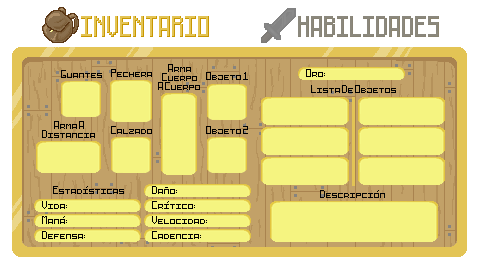
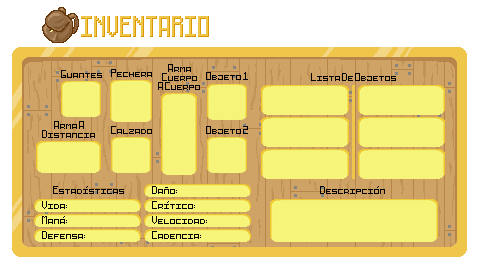
recolocando objetos

diff --git a/src/Sources/Inventory.cpp b/src/Sources/Inventory.cpp
@@ -52,7 +52,7 @@ Inventory::Inventory(Application* app) :GameState(app) {
 	//app_->getWindowWidth(), app_->getWindowHeight() 
 	 auxpos = Vector2D{ 8*(double)(app_->getWindowWidth() /9), 2*(double)(app_->getWindowHeight()/9)};
 	 auxSize = Vector2D{ (double)(app_->getWindowWidth() / 25),  (double)(app_->getWindowWidth() / 25) };
-	exitButton_= new Button(app, app_->getTextureManager()->getTexture(Resources::ButtonX), { 1439,214 }, { 60,53 }, callExit);
+	exitButton_= new Button(app, app_->getTextureManager()->getTexture(Resources::ButtonX), auxpos, auxSize, callExit);
 	addRenderUpdateLists(exitButton_);
 
 	auxpos = Vector2D{ 7 * (double)(app_->getWindowWidth() / 13),/* 1 * (double)(app_->getWindowHeight() / 40)*/ 22};
@@ -70,20 +70,20 @@ Inventory::Inventory(Application* app) :GameState(app) {
 	
 	playerEquipment aux = player_->getInfoEquip();
 
-	if (aux.armor_ != nullptr) equipment_.armor_ = new InventoryButton(app_,  app_->getTextureManager()->getTexture(Resources::TextureId::Wheel), Vector2D{ 300,400 }, Vector2D{ 50,50 }, aux.armor_, callSelectObject,true);
-	if (aux.boots_ != nullptr) equipment_.boots_ = new InventoryButton(app_,  app_->getTextureManager()->getTexture(Resources::TextureId::Wheel), Vector2D{ 300,400 }, Vector2D{ 50,50 }, aux.boots_, callSelectObject,true);
-	if (aux.gloves_ != nullptr) equipment_.gloves_ = new InventoryButton(app_,  app_->getTextureManager()->getTexture(Resources::TextureId::Gloves1), Vector2D{ 300,400 }, Vector2D{ 50,50 }, aux.gloves_, callSelectObject,true);
-	if (aux.gun_ != nullptr) equipment_.gun_ = new InventoryButton(app_,  app_->getTextureManager()->getTexture(Resources::TextureId::Gun1), Vector2D{ 300,400 }, Vector2D{ 75,75 }, aux.gun_, callSelectObject,true);
-	if (aux.sword_ != nullptr) equipment_.sword_ = new InventoryButton(app_,  app_->getTextureManager()->getTexture(Resources::TextureId::Wheel), Vector2D{ 300,400 }, Vector2D{ 50,50 }, aux.sword_, callSelectObject,true);
-	if (aux.potion1_ != nullptr) equipment_.potion1_ = new InventoryButton(app_,  app_->getTextureManager()->getTexture(Resources::TextureId::Wheel), Vector2D{ 300,400 }, Vector2D{ 50,50 }, aux.potion1_, callSelectObject,true);
-	if (aux.potion2_ != nullptr) equipment_.potion2_ = new InventoryButton(app_,  app_->getTextureManager()->getTexture(Resources::TextureId::Wheel), Vector2D{ 300,400 }, Vector2D{ 50,50 }, aux.potion2_, callSelectObject,true);
+	if (aux.armor_ != nullptr) equipment_.armor_ = new InventoryButton(app_, aux.armor_->getItemTexture(), Vector2D{ 300,400 }, Vector2D{ 50,50 }, aux.armor_, callSelectObject,true);
+	if (aux.boots_ != nullptr) equipment_.boots_ = new InventoryButton(app_, aux.boots_->getItemTexture(), Vector2D{ 300,400 }, Vector2D{ 50,50 }, aux.boots_, callSelectObject,true);
+	if (aux.gloves_ != nullptr) equipment_.gloves_ = new InventoryButton(app_, aux.gloves_->getItemTexture(), Vector2D{ 300,400 }, Vector2D{ 50,50 }, aux.gloves_, callSelectObject,true);
+	if (aux.gun_ != nullptr) equipment_.gun_ = new InventoryButton(app_, aux.gun_->getItemTexture(), Vector2D{ 300,400 }, Vector2D{ 75,75 }, aux.gun_, callSelectObject,true);
+	if (aux.sword_ != nullptr) equipment_.sword_ = new InventoryButton(app_, aux.sword_->getItemTexture(), Vector2D{ 300,400 }, Vector2D{ 50,50 }, aux.sword_, callSelectObject,true);
+	if (aux.potion1_ != nullptr) equipment_.potion1_ = new InventoryButton(app_, aux.potion1_->getItemTexture(), Vector2D{ 300,400 }, Vector2D{ 50,50 }, aux.potion1_, callSelectObject,true);
+	if (aux.potion2_ != nullptr) equipment_.potion2_ = new InventoryButton(app_, aux.potion2_->getItemTexture(), Vector2D{ 300,400 }, Vector2D{ 50,50 }, aux.potion2_, callSelectObject,true);
 
 	#ifdef _DEBUG
 	cout << "creamos el objeto" << endl;
 	string nombre = "guantes1";
 	string desc = "duantes1";
 	
-	Gloves* guante0 = new Gloves(app_->getTextureManager()->getTexture(Resources::TextureId::Gloves1), nombre, desc, 20.0, 10, 10);
+	Gloves* guante0 = new Gloves(app_->getTextureManager()->getTexture(Resources::TextureId::Gloves2), nombre, desc, 20.0, 10, 10);
 	Gloves* guante1 = new Gloves(app_->getTextureManager()->getTexture(Resources::TextureId::Gloves1), nombre, desc, 20.0, 10, 10);
 	Gloves* guante2 = new Gloves(app_->getTextureManager()->getTexture(Resources::TextureId::Gloves1), nombre, desc, 20.0, 10, 10);
 	Gloves* guante3 = new Gloves(app_->getTextureManager()->getTexture(Resources::TextureId::Gloves1), nombre, desc, 20.0, 10, 10);
@@ -234,7 +234,7 @@ void Inventory::equipPotionAux() {
 void Inventory::forwardList() {
 	int aux = advanced;
 	aux += 1;
-	if ((aux * VIEW_LIST)<= inventoryList_->size()){
+	if (((aux * VIEW_LIST))<= inventoryList_->size()){
 		advanced = aux;
 		advance(ListPos, VIEW_LIST);//avanzamos el iterador
 	}
@@ -291,34 +291,71 @@ void Inventory::draw()const {
 			j++;
 		}
 	}
+	double posx, posy, sizeX, sizeY;
+	
 	
 	// falta ajustar la posicion de los botones
 	if (equipment_.gloves_ != nullptr) {
-		equipment_.gloves_->setPos(Vector2D{ 163.0,180.0 });
+		 posx = 2.6 * (double)(app_->getWindowWidth() / 21);
+		 posy = 3 * (double)(app_->getWindowHeight() / 10);
+		 sizeX = (double)(app_->getWindowWidth() / 12);
+		 sizeY = (double)(app_->getWindowWidth() / 12);
+		equipment_.gloves_->setPos(Vector2D{ posx,posy });
+		equipment_.gloves_->setScale(Vector2D{ sizeX,sizeY });
 		equipment_.gloves_->draw();
 	}
 	if (equipment_.gun_ != nullptr) {
-		equipment_.gun_->setPos(Vector2D{ 600.0,500.0 });
+		posx = 2 * (double)(app_->getWindowWidth() / 19);
+		posy = 7 * (double)(app_->getWindowHeight() / 13);
+		sizeX = (double)(app_->getWindowWidth() / 11);
+		sizeY = (double)(app_->getWindowWidth() / 18);
+		equipment_.gun_->setPos(Vector2D{ posx,posy });
+		equipment_.gun_->setScale(Vector2D{ sizeX,sizeY });
 		equipment_.gun_->draw();
 	}
 	if (equipment_.sword_ != nullptr) {
-		equipment_.sword_->setPos(Vector2D{ 700.0,500.0 });
+		posx = 7 * (double)(app_->getWindowWidth() / 20);
+		posy = 5 * (double)(app_->getWindowHeight() / 14);
+		sizeX = (double)(app_->getWindowWidth() / 20);
+		sizeY = (double)(app_->getWindowWidth() / 6);
+		equipment_.sword_->setPos(Vector2D{ posx,posy});
+		equipment_.sword_->setScale(Vector2D{ sizeX,sizeY });
 		equipment_.sword_->draw();
 	}
 	if (equipment_.armor_ != nullptr) {
-		equipment_.armor_->setPos(Vector2D{ 800.0,500.0 });
+		posx = 4.8 * (double)(app_->getWindowWidth() / 21);
+		posy = 5.2 * (double)(app_->getWindowHeight() / 17);
+		sizeX = (double)(app_->getWindowWidth() / 12);
+		sizeY = (double)(app_->getWindowWidth() / 12);
+		equipment_.armor_->setPos(Vector2D{ posx,posy });
+		equipment_.armor_->setScale(Vector2D{ sizeX,sizeY });
 		equipment_.armor_->draw();
 	}
 	if (equipment_.boots_ != nullptr) {
-		equipment_.boots_->setPos(Vector2D{ 900.0,500.0 });
+		posx = 5 * (double)(app_->getWindowWidth() / 21);
+		posy = 9 * (double)(app_->getWindowHeight() / 17);
+		sizeX = (double)(app_->getWindowWidth() / 15);
+		sizeY = (double)(app_->getWindowWidth() / 15);
+		equipment_.boots_->setPos(Vector2D{ posx,posy });
+		equipment_.boots_->setScale(Vector2D{ sizeX,sizeY });
 		equipment_.boots_->draw();
 	}
 	if (equipment_.potion1_ != nullptr) {
-		equipment_.potion1_->setPos(Vector2D{ 1000.0,500.0 });
+		posx = 9.3 * (double)(app_->getWindowWidth() / 21);
+		posy = 5.5 * (double)(app_->getWindowHeight() / 17);
+		sizeX = (double)(app_->getWindowWidth() / 18);
+		sizeY = (double)(app_->getWindowWidth() / 18);
+		equipment_.potion1_->setPos(Vector2D{ posx,posy });
+		equipment_.potion1_->setScale(Vector2D{ sizeX,sizeY });
 		equipment_.potion1_->draw();
 	}
 	if (equipment_.potion2_ != nullptr) {
-		equipment_.potion2_->setPos(Vector2D{ 1100.0,500.0 });
+		posx = 9.3 * (double)(app_->getWindowWidth() / 21);
+		posy = 9.3 * (double)(app_->getWindowHeight() / 17);
+		sizeX = (double)(app_->getWindowWidth() / 18);
+		sizeY = (double)(app_->getWindowWidth() / 18);
+		equipment_.potion2_->setPos(Vector2D{ posx,posy });
+		equipment_.potion2_->setScale(Vector2D{ sizeX,sizeY });
 		equipment_.potion2_->draw();
 	}
 
@@ -361,8 +398,8 @@ void Inventory::update() {
 	}
 
 	SDL_Point point;
-	point.x = eventHandler_->getRealMousePos().getX();
-	point.y = eventHandler_->getRealMousePos().getY();
+	point.x = int(eventHandler_->getRealMousePos().getX());
+	point.y = int(eventHandler_->getRealMousePos().getY());
 
 	if (SDL_PointInRect(&point, &goToSkillsButton_->getDestiny())) {
 		goToSkillsButton_->setTexture(app_->getTextureManager()->getTexture(Resources::TextureId::GoToSkillsBButton));

diff --git a/src/Sources/Player.cpp b/src/Sources/Player.cpp
@@ -35,11 +35,12 @@ void Player::initObject()
 	//Equipamiento inicial del jugador
 	//Balancear los valores del equipamiento cuando sea necesario
 	equip_.armor_ = new Armor(app_->getTextureManager()->getTexture(Resources::TextureId::Wheel), "Pechera", "helloWorld", 10, 10, 10); equip_.armor_->writeStats(); //Prueba
-	equip_.gloves_ = new Gloves(app_->getTextureManager()->getTexture(Resources::TextureId::Wheel), "Guantes", "helloWorld", 10, 10, 10); equip_.gloves_->writeStats(); //Prueba
-	equip_.boots_ = new Boots(app_->getTextureManager()->getTexture(Resources::TextureId::Wheel), "Botas", "helloWorld", 10, 10, 10); equip_.boots_->writeStats(); //Prueba
+	equip_.gloves_ = new Gloves(app_->getTextureManager()->getTexture(Resources::TextureId::Gloves1), "Guantes", "helloWorld", 10, 10, 10); equip_.gloves_->writeStats(); //Prueba
+	equip_.boots_ = new Boots(app_->getTextureManager()->getTexture(Resources::TextureId::Boots1), "Botas", "helloWorld", 10, 10, 10); equip_.boots_->writeStats(); //Prueba
 	equip_.sword_ = new Sword(app_->getTextureManager()->getTexture(Resources::TextureId::Wheel), "Sable", "helloWorld", 10, 10, 10, Saber_); equip_.sword_->writeStats(); //Prueba
-	equip_.gun_ = new Gun(app_->getTextureManager()->getTexture(Resources::TextureId::Wheel), "Pistola", "helloWorld", 10, 10, 10, Pistol_); equip_.gun_->writeStats(); //Prueba
+	equip_.gun_ = new Gun(app_->getTextureManager()->getTexture(Resources::TextureId::Gun1), "Pistola", "helloWorld", 10, 10, 10, Pistol_); equip_.gun_->writeStats(); //Prueba
 	equip_.potion1_ = new usable(app_->getTextureManager()->getTexture(Resources::TextureId::ManaPot), "ManaPot", "helajieoie", 10, potionType::mana_, 10, 10);	//Prueba
+	equip_.potion2_ = new usable(app_->getTextureManager()->getTexture(Resources::TextureId::ManaPot), "ManaPot", "helajieoie", 10, potionType::mana_, 10, 10);	//Prueba
 }
 
 bool Player::update()

diff --git a/src/Sources/Resources.cpp b/src/Sources/Resources.cpp
@@ -130,6 +130,8 @@ vector<Resources::ImageInfo> Resources::imageRoutes{
 	//Equipables
 	{Gun1, "../Sources/assets/Equipamiento/pistola1.png"},
 	{Gloves1, "../Sources/assets/Equipamiento/Gloves.png"},
+	{Boots1, "../Sources/assets/Equipamiento/botas.png"},
+	{Gloves2, "../Sources/assets/Equipamiento/Guantes2.png"}
 };
 
 vector<Resources::SoundInfo> Resources::soundRoutes{

diff --git a/src/Sources/Resources.h b/src/Sources/Resources.h
@@ -159,6 +159,8 @@ public:
 		//Equipables
 		Gun1,
 		Gloves1,
+		Boots1,
+		Gloves2,
 	};
 
 	///<summary>Enum para las distintos audios del juego</summary>
